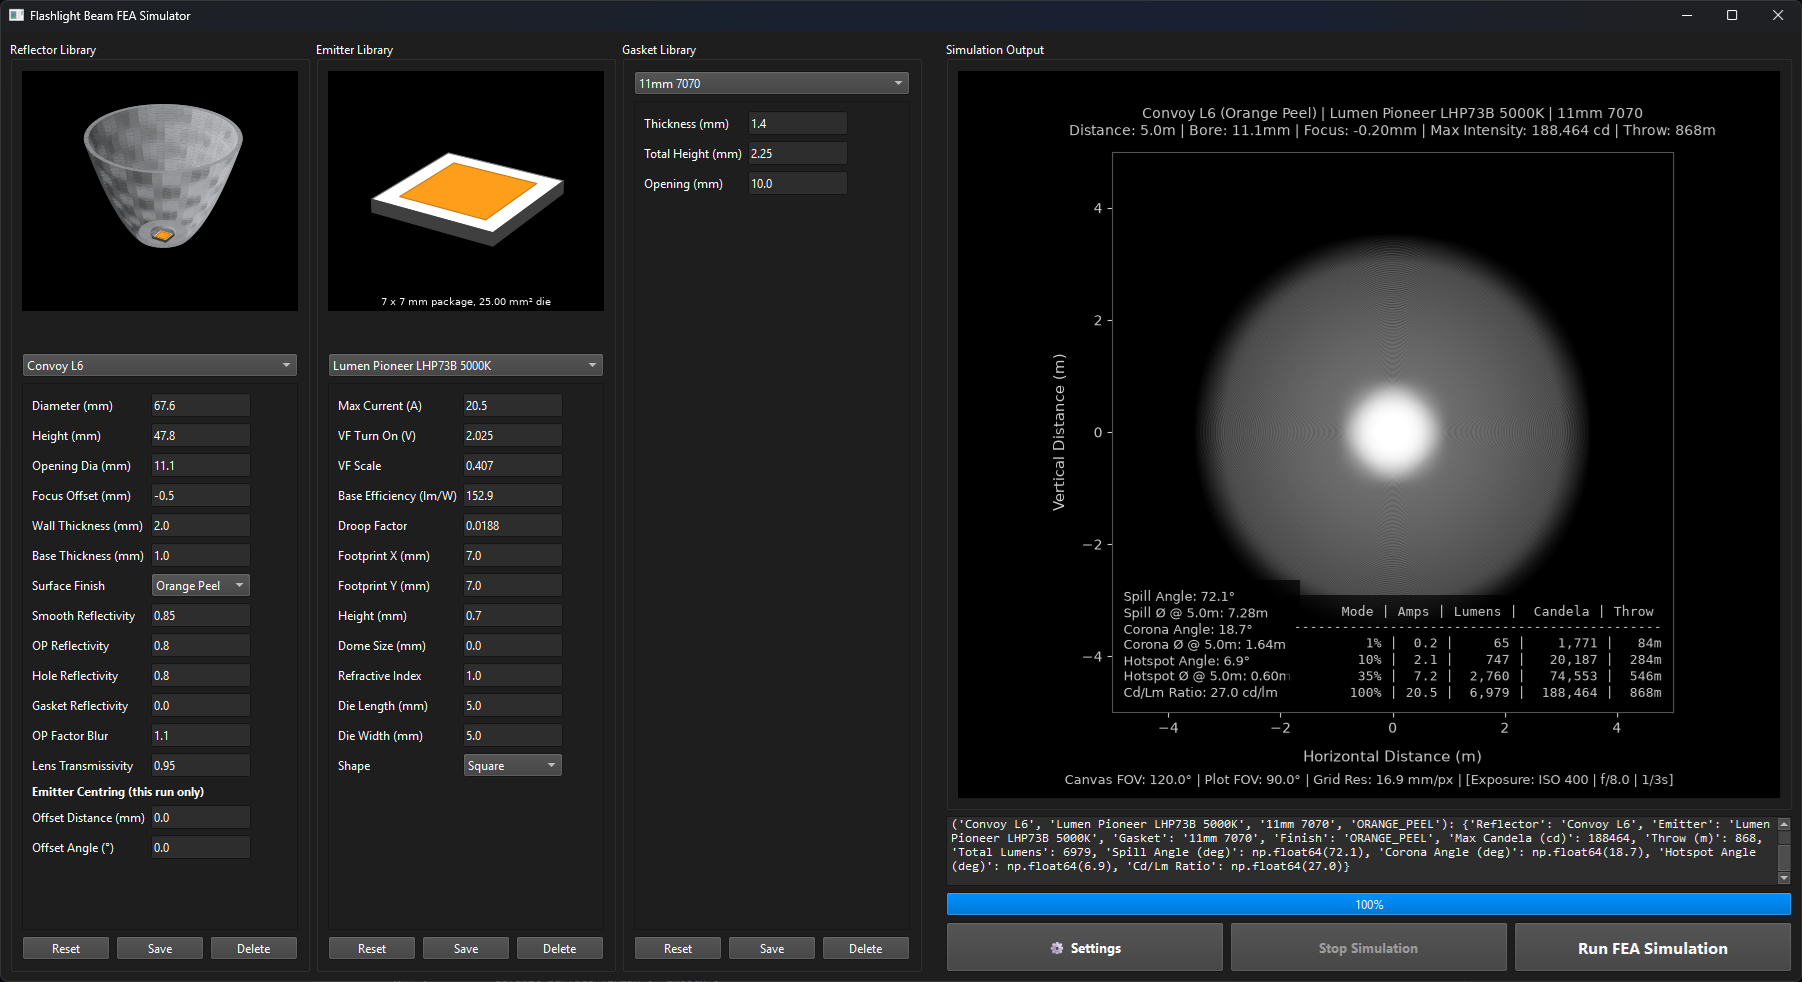
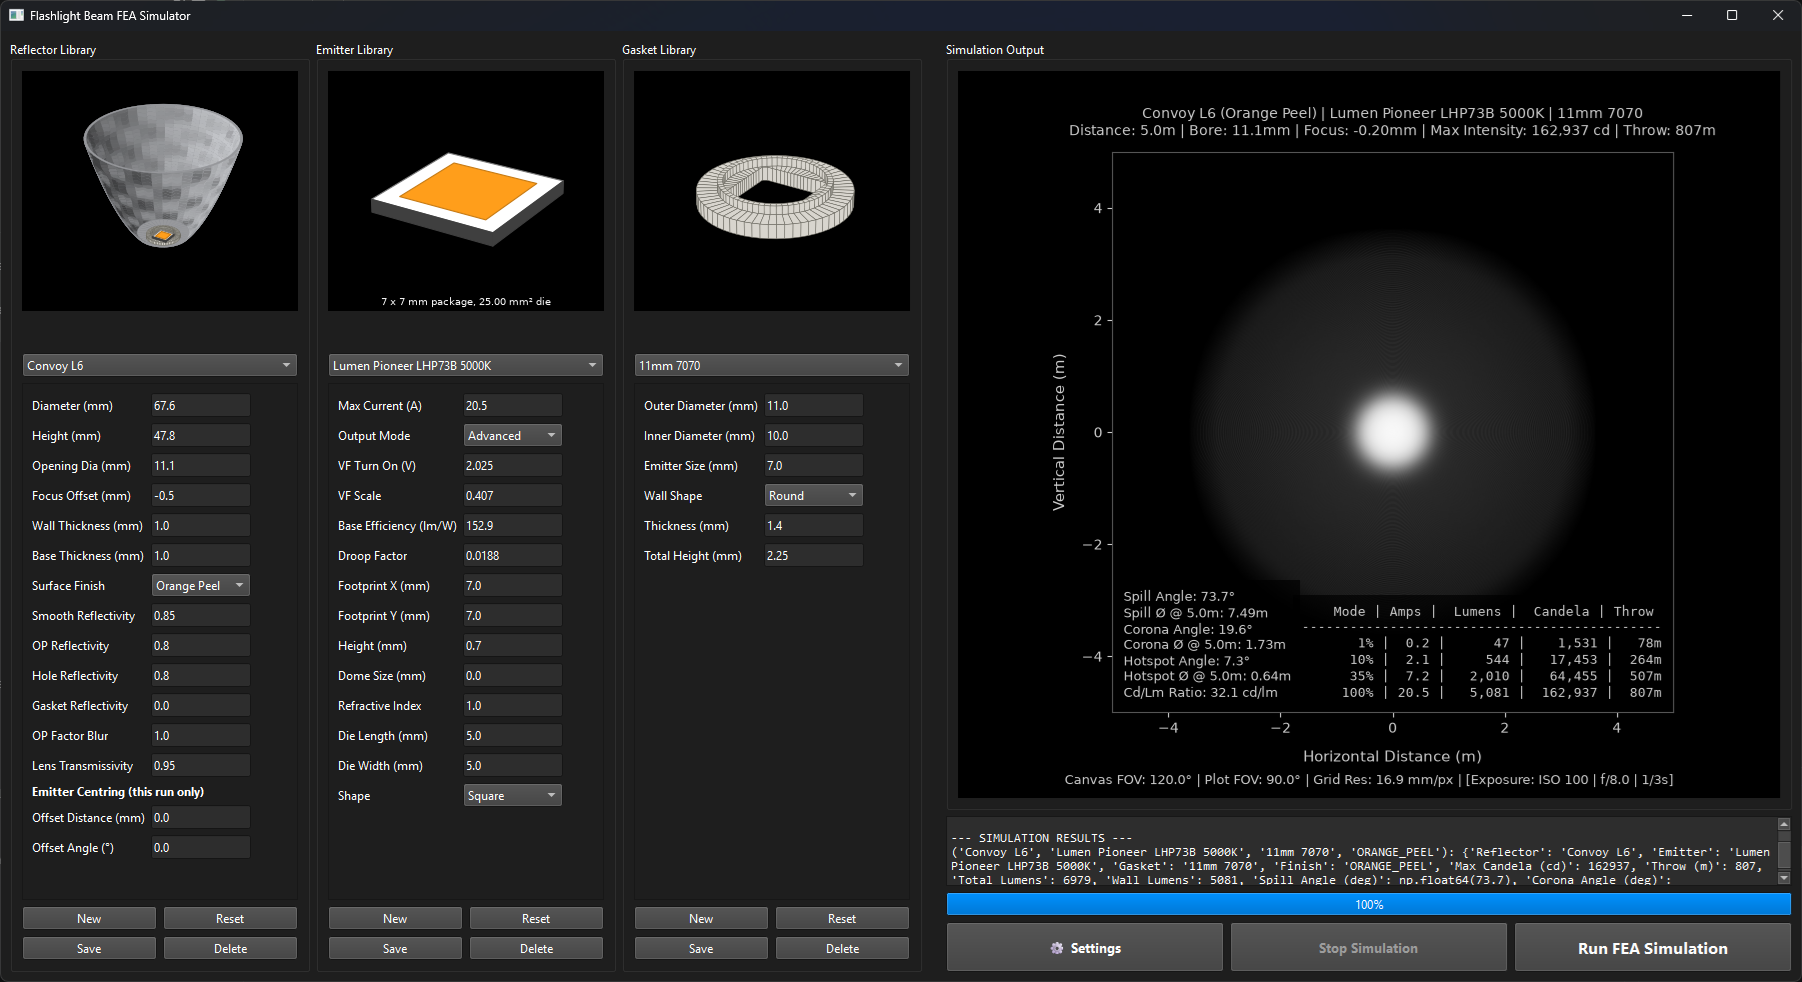
tweak - updated README

diff --git a/README.md b/README.md
@@ -210,7 +210,7 @@ Distance between the flashlight and the simulated wall.
 
 Controls the total simulated wall area.
 
-Used to determine the wall grid resolution. Should not need to be changed.
+Used to determine the wall grid resolution. Changing this will require Orange Peel blurring to be recalibrated.
 
 ---
 
